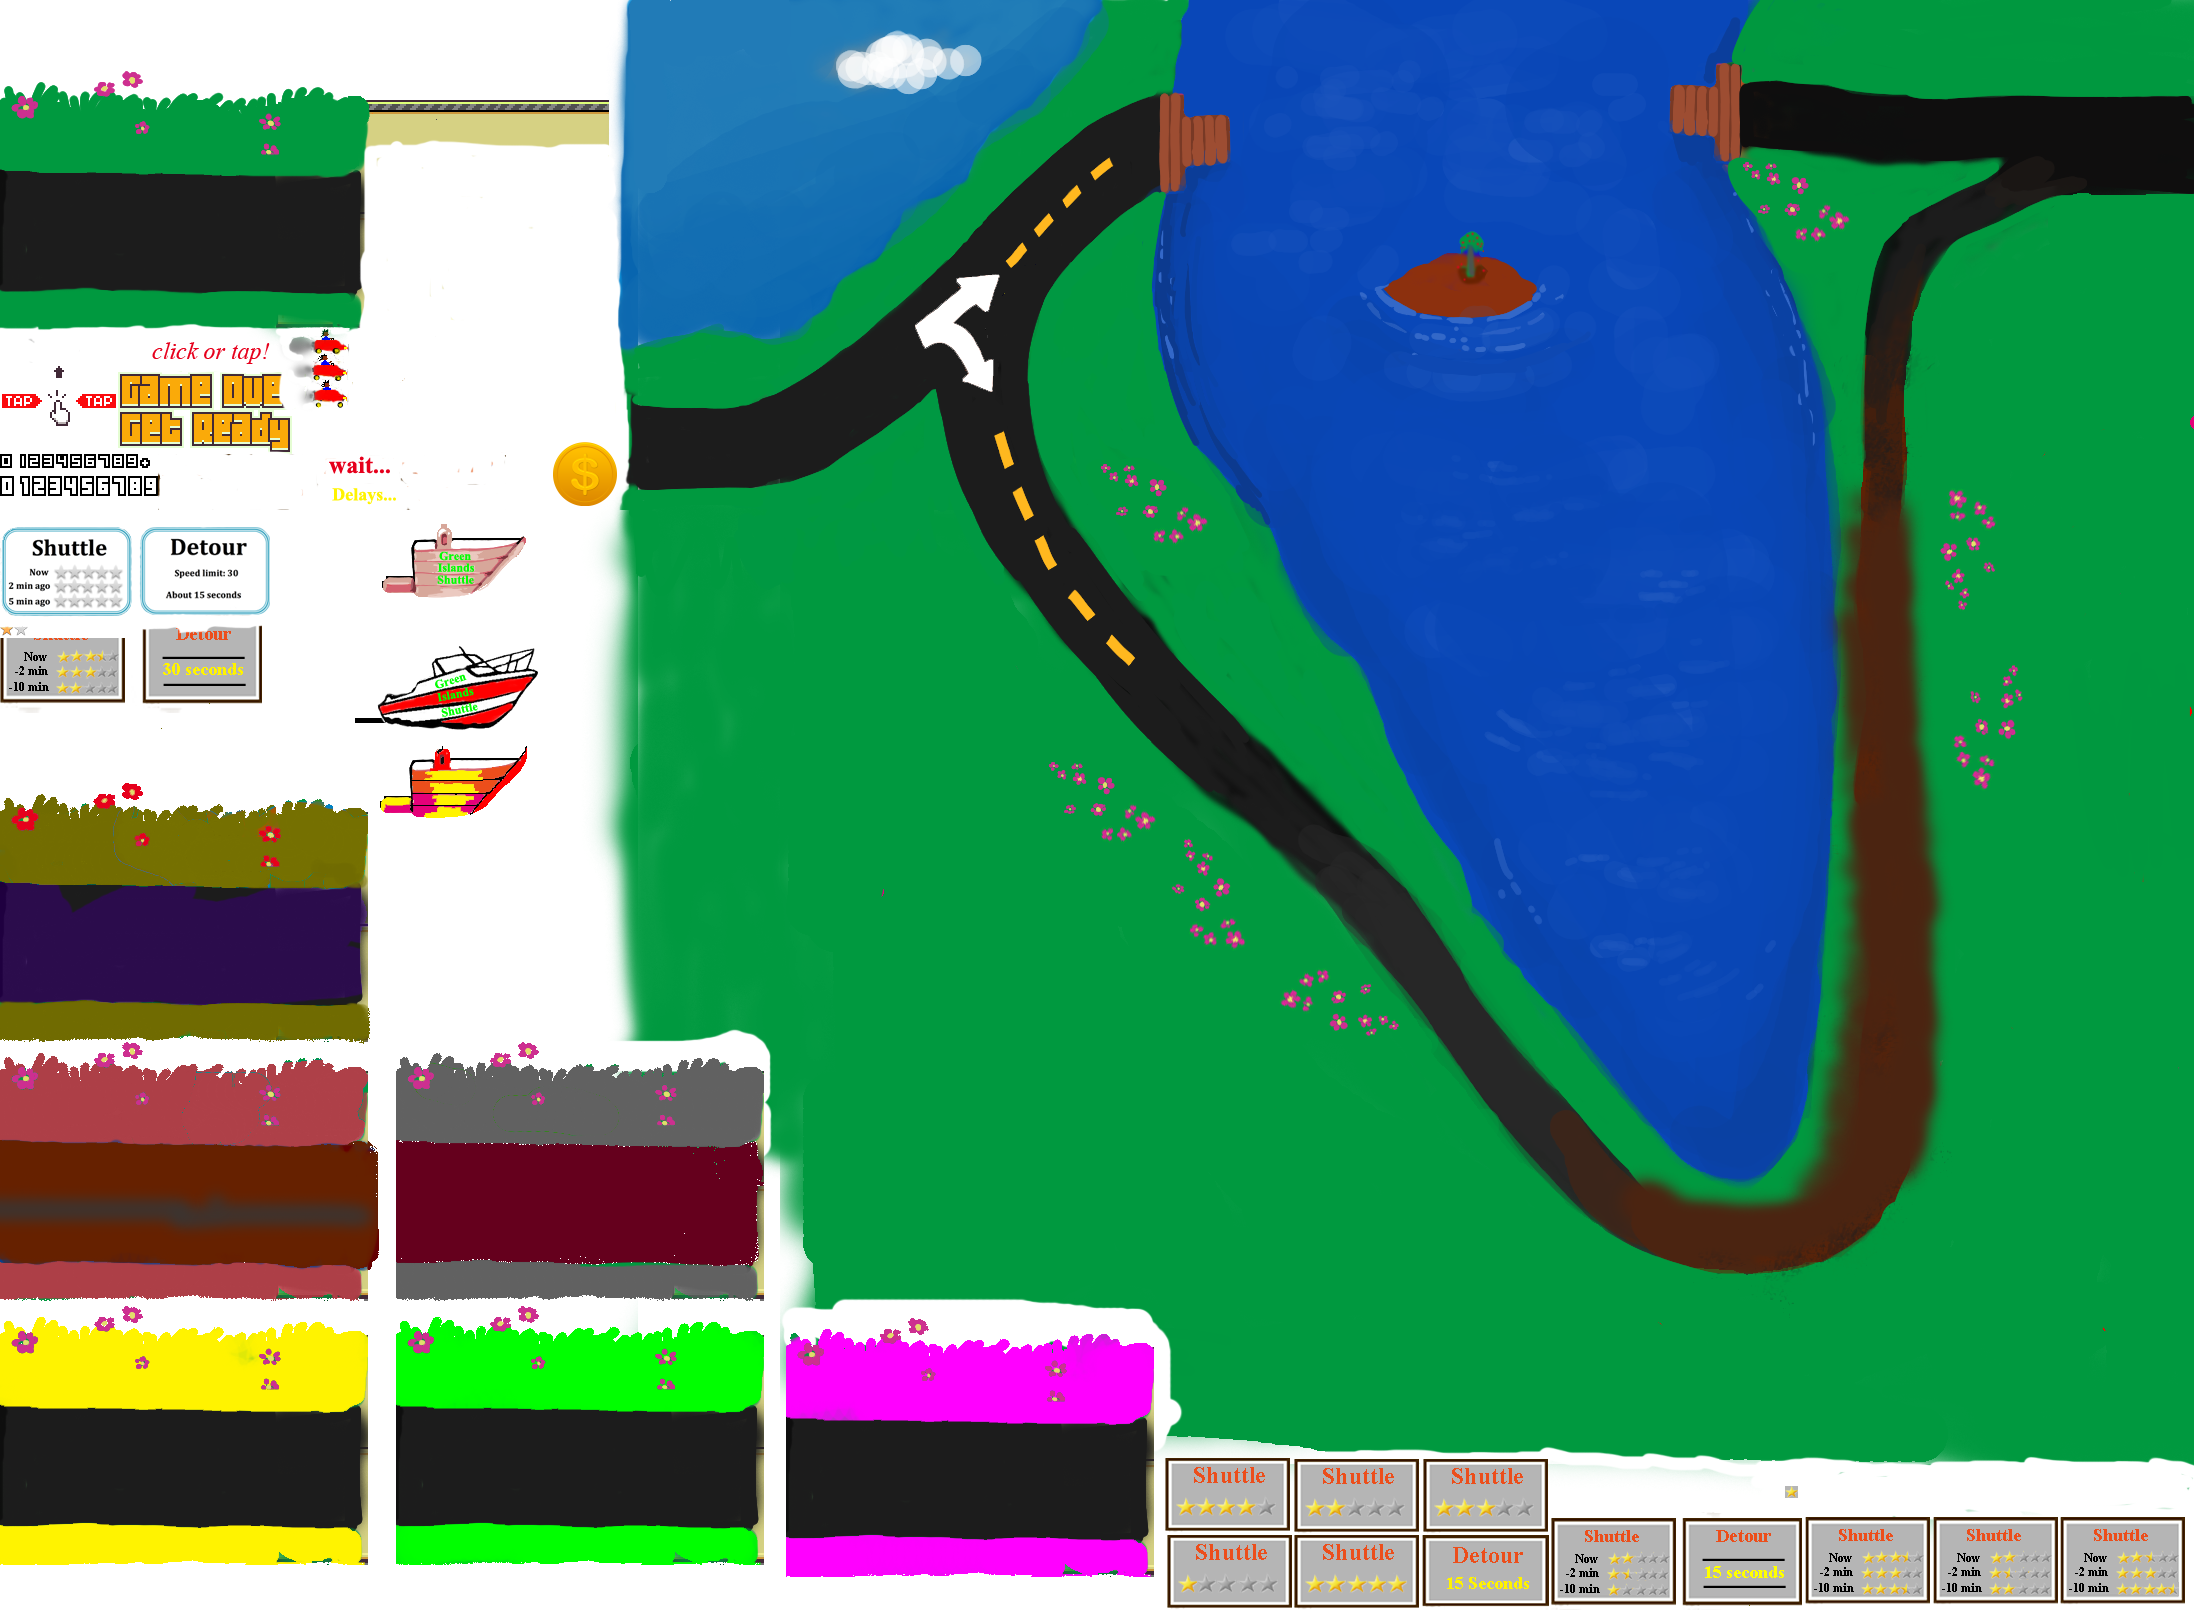
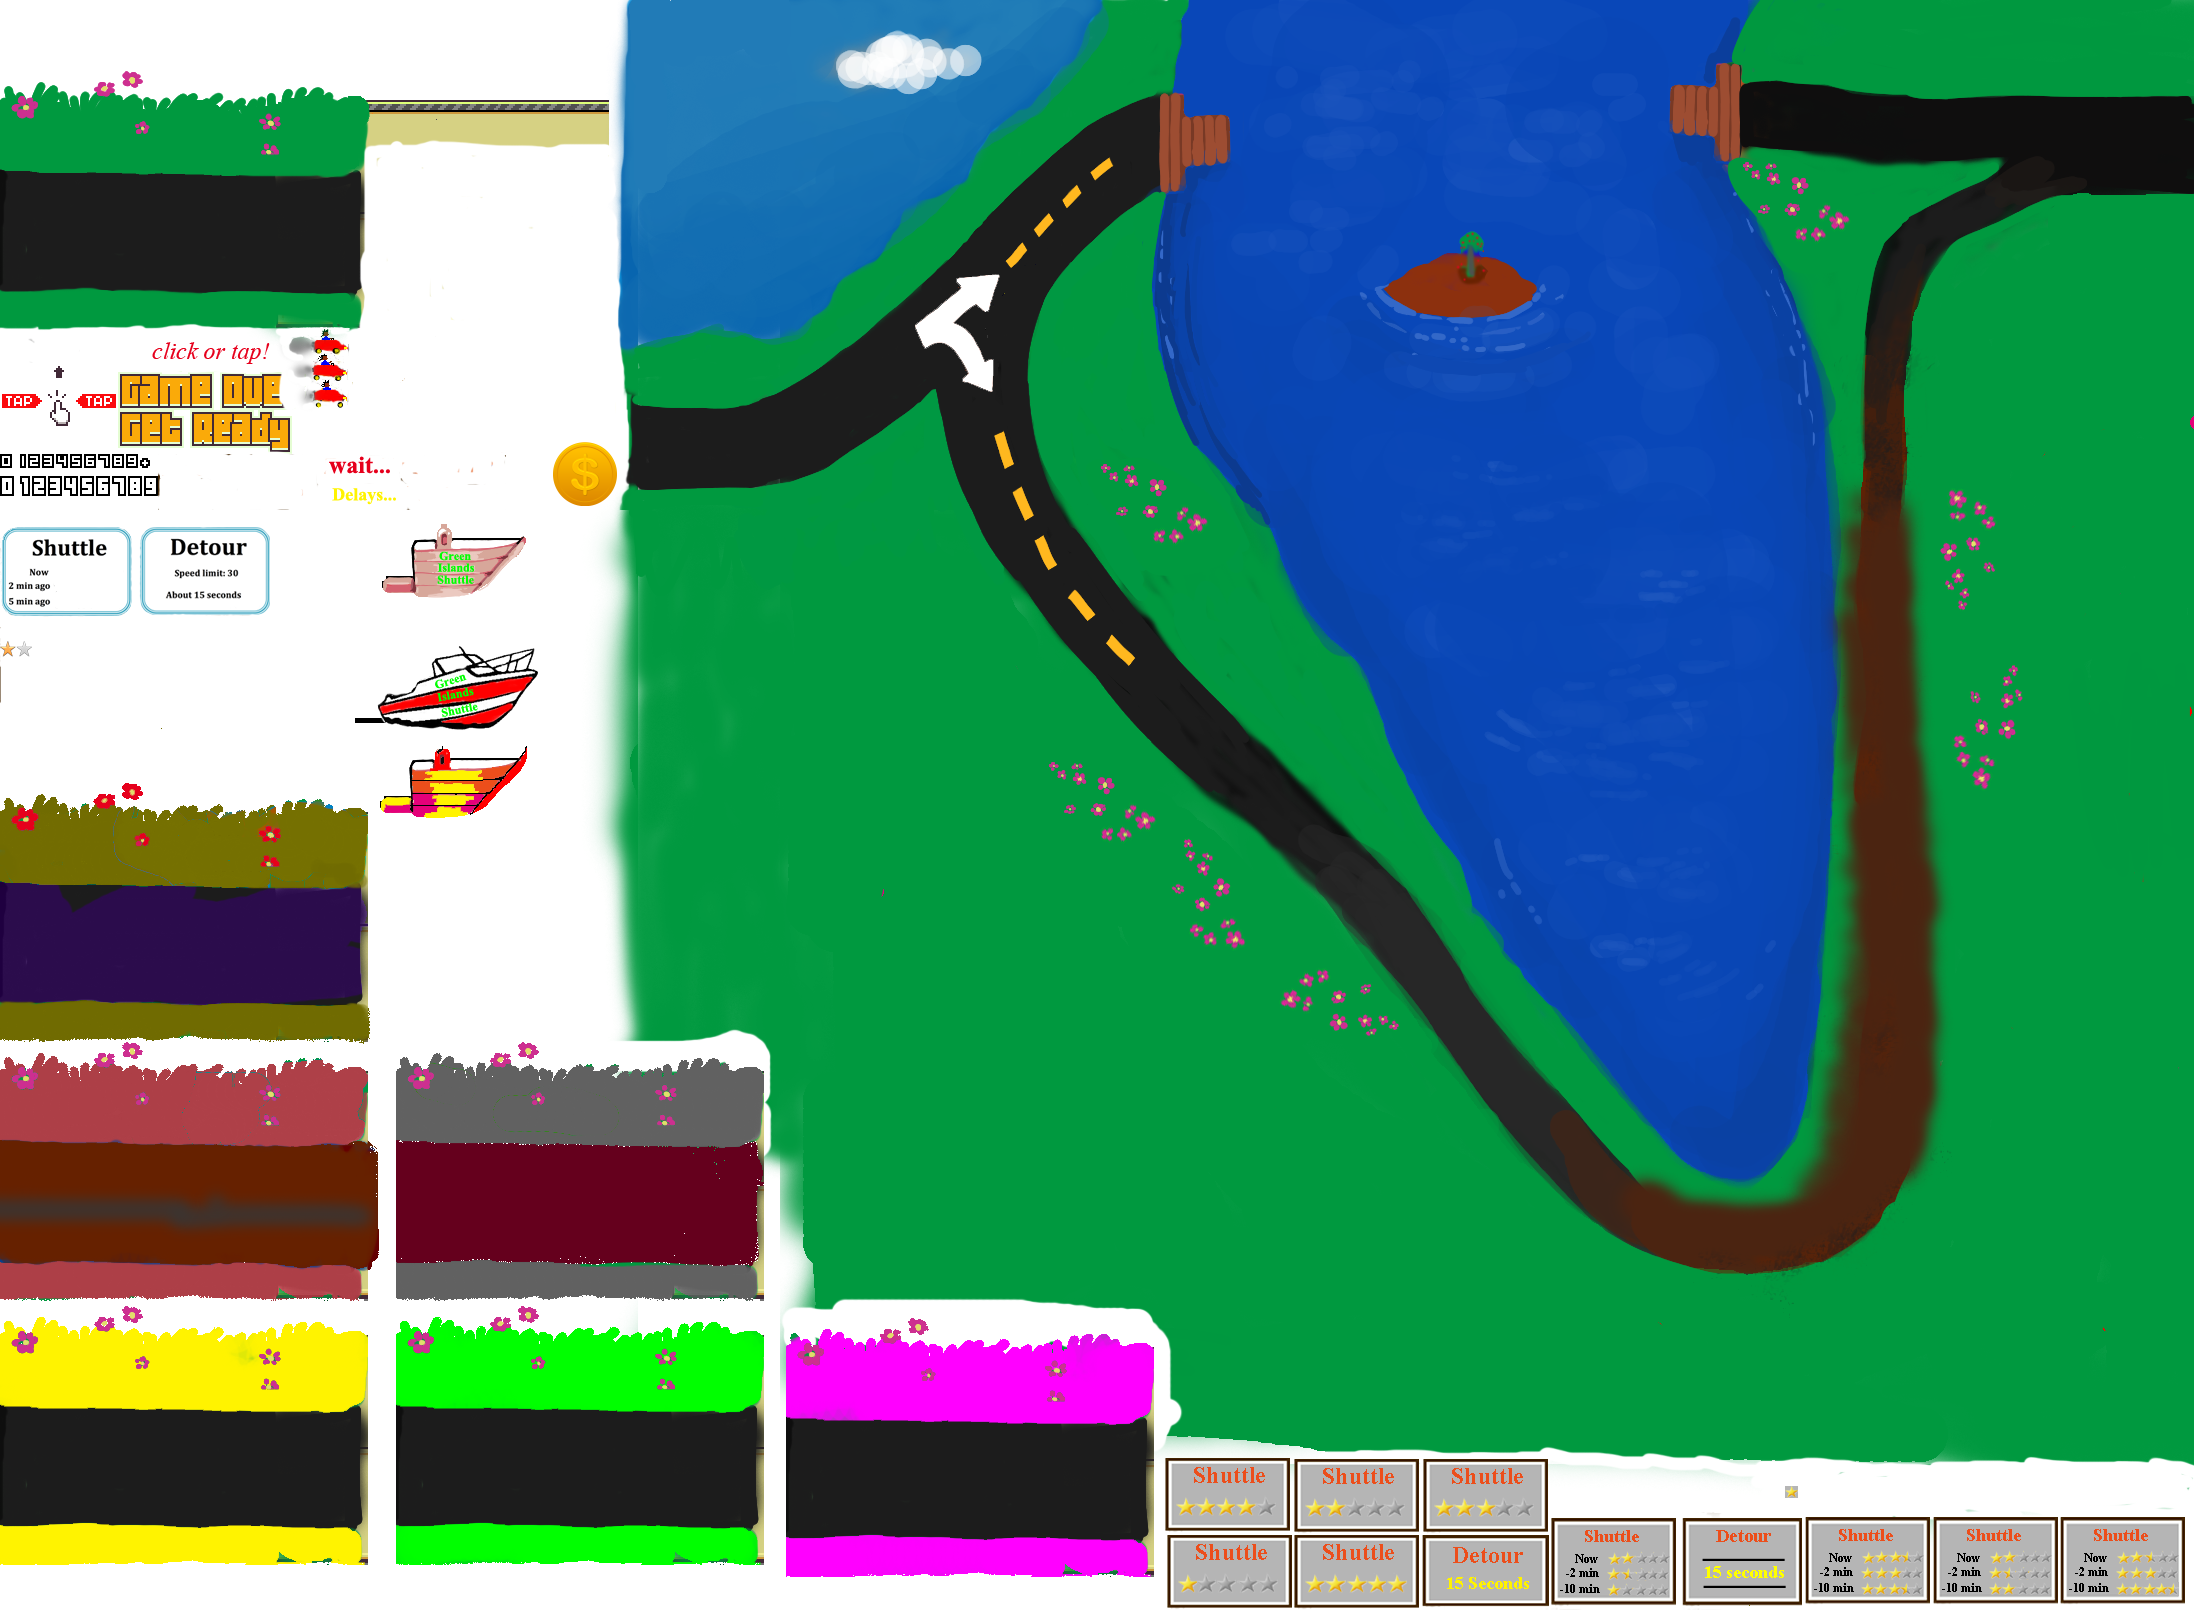
shuttle_feedback array holds values for each rating interval ( 0 - 50. Initialized with 0. Values of his array are set in get_shuttle_stats in game.js. At this point these values are randomly generated but they will come from the server in a json format. See get_shuttle_stats for details how the dat

Changed region(s): [[0.0, 0.3416, 0.124, 0.4348]]

diff --git a/parts/game/gamefiles/js/game.js b/parts/game/gamefiles/js/game.js
@@ -5,7 +5,7 @@
  
  */
 
-var
+var     shuttle_feedback = [0,0,0],
         action_codes = {coin_collect: 1000, shuttle_choice_detour: 2000, shuttle_choice_ride: 3000},
         rnd,
         new_junction = false,
@@ -562,8 +562,9 @@ function update() {
         if (stage < 7) {
             currentstate = states.Junction;
             junction_before_choice = true;
-            console.log("Time to get a new chart");
-            FeedbackChart.reload();
+            console.log("Time to get a new feedback data");
+            //Calling json to get new data
+            get_shuttle_stats();
         }
         else {
             report_score(score);
@@ -686,7 +687,13 @@ function render() {
 
             s_junction.drawX(ctx, 0, height - 500, x_offset, 0); // we now draw the buttons of the 'shuttle' and 'detour' when the car is waiting:
             s_buttons.Detour.draw(ctx, detourbtn.x, detourbtn.y);
-            if(score>3)s_buttons.Shuttle.draw(ctx, shuttlebtn.x, shuttlebtn.y);
+            if(score>3){ 
+                s_buttons.Shuttle.draw(ctx, shuttlebtn.x, shuttlebtn.y);
+                draw_stars(shuttle_feedback[0],shuttle_feedback[1],shuttle_feedback[2]);
+            }
+            
+            
+            
             FeedbackChart.draw(ctx);
 
             if (new_junction) {
@@ -935,6 +942,34 @@ function showGameCanvas()
 }
 
 
+function get_shuttle_stats()
+{
+    var client = new XMLHttpRequest();
+    client.open("GET", "gamefiles/php/getShuttleStats.php"); //Math.random is used to make the URL unique to prevent caching
+    client.send();
+    client.onreadystatechange = function () {
+        if (client.readyState == 4 && client.status == 200) {
+            stats = client.responseText; // need to parse...
+            var json_obj = JSON.parse(stats);
+            
+            /*
+             * Paring JSON object
+             * Make sure to handle errors!!!
+             */
+            
+            max = 6
+            min = 0;
+            
+            shuttle_feedback[0] = Math.floor(Math.random() * (max - min)) + min;
+            shuttle_feedback[1] = Math.floor(Math.random() * (max - min)) + min;
+            shuttle_feedback[2] = Math.floor(Math.random() * (max - min)) + min;
+            
+
+        }
+    }
+
+}
+
 
 
 function get_performance() // choice will return 1 for shuttle and 2 for detour
@@ -961,3 +996,28 @@ function get_performance() // choice will return 1 for shuttle and 2 for detour
 }
 
 
+function draw_stars(x,y,z)
+{
+    offset=52;
+    if(x){
+        for(i=0;i<5;i++){
+            if(i<x) s_star.draw(ctx,shuttlebtn.x+offset+14*i, shuttlebtn.y+40);
+            else s_gray_star.draw(ctx,shuttlebtn.x+offset+14*i, shuttlebtn.y+40);
+        }
+    }
+    
+    if(y){
+        for(i=0;i<5;i++){
+            if(i<y) s_star.draw(ctx,shuttlebtn.x+offset+14*i, shuttlebtn.y+54);
+            else s_gray_star.draw(ctx,shuttlebtn.x+offset+14*i, shuttlebtn.y+54);
+        }
+    }
+    
+    if(z){
+        for(i=0;i<5;i++){
+            if(i<z) s_star.draw(ctx,shuttlebtn.x+offset+14*i, shuttlebtn.y+68);
+            else s_gray_star.draw(ctx,shuttlebtn.x+offset+14*i, shuttlebtn.y+68);
+        }
+    }
+    
+}

diff --git a/parts/game/gamefiles/js/sprite.js b/parts/game/gamefiles/js/sprite.js
@@ -14,7 +14,9 @@ var
         s_buttons,
         s_numberS,
         s_numberB,
-        s_coin;
+        s_coin,
+        s_star,
+        s_gray_star;
 
 /**
  * Simple sprite class
@@ -78,6 +80,8 @@ function initSprites(img) {
     s_text_delays = new Sprite(img, 159, 241, 40, 14);
 
     s_coin = new Sprite(img, 276, 220, 33, 33);
+    s_star= new Sprite(img, 0, 320, 8, 8);
+    s_gray_star= new Sprite(img, 8, 320, 8, 8);
 
     s_text = {
         FlappyBird: new Sprite(img, 59, 164, 76, 20),
